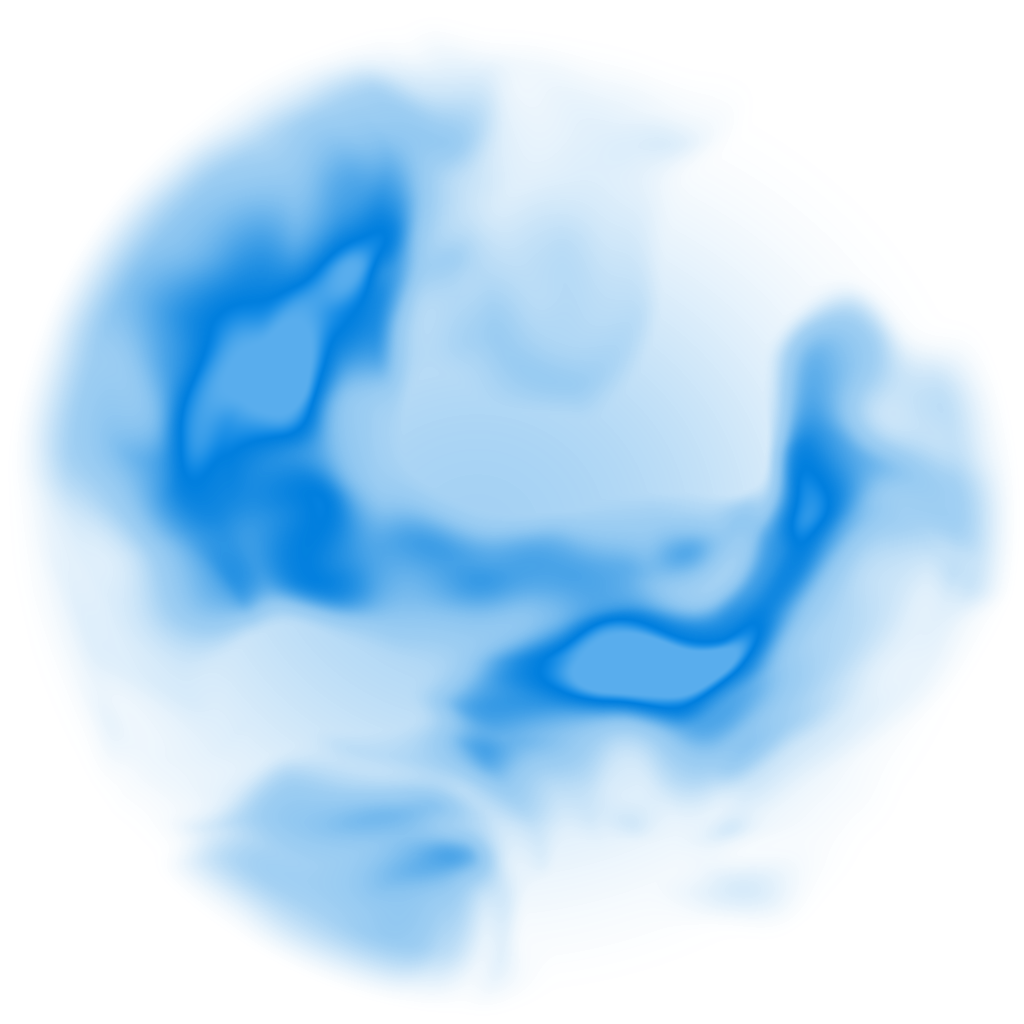
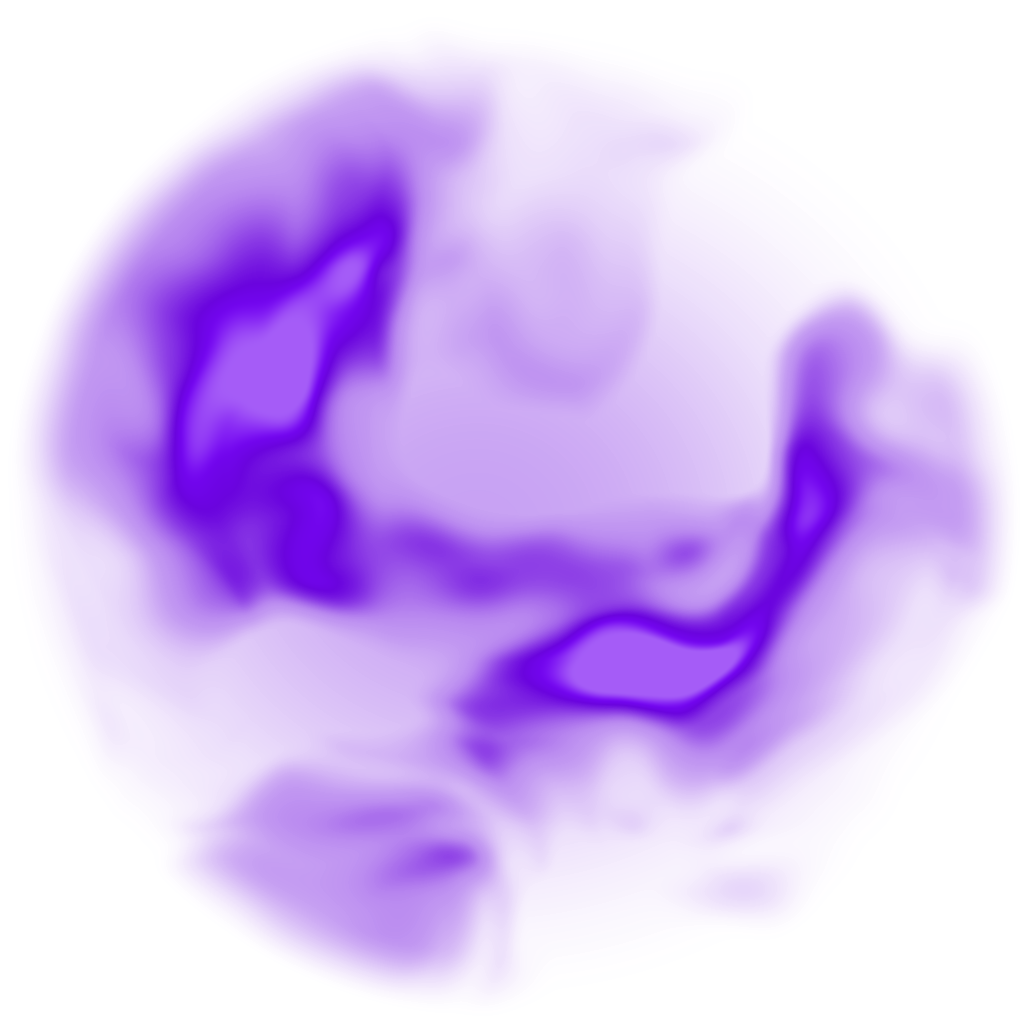
Colours: primary #7a05ff, secondary #ffffff, buttons #00d0ff (Color studio)

diff --git a/app/globals.css b/app/globals.css
@@ -62,9 +62,9 @@
  * Dark-first: výchozí je tmavé téma. Slider v rohu mění --brand-h / --brand-c.
  */
 :root {
-  --brand-h: 251.3;
-  --brand-c: 0.1823;
-  --brand-l-adj: -0.1587; /* ±0.08: posun světlosti akcentu (tlačítka, výplně, glow) */
+  --brand-h: 291.9;
+  --brand-c: 0.2919;
+  --brand-l-adj: -0.2549; /* ±0.08: posun světlosti akcentu (tlačítka, výplně, glow) */
 
   --brand: oklch(calc(0.78 + var(--brand-l-adj)) var(--brand-c) var(--brand-h));
   --brand-strong: oklch(calc(0.7 + var(--brand-l-adj)) var(--brand-c) var(--brand-h));
@@ -89,7 +89,7 @@
 
   /* Tmavé téma (výchozí) */
   /* Pozadí: světlost / sytost / odstín jedné barvy (Color studio), ostatní neutrály jsou její odvozeniny */
-  --bgd-l: 0.3012;
+  --bgd-l: 0.252;
   --bgd-c: 0;
   --bgd-h: 0;
   --bgl-l: 0.9194;

diff --git a/components/ColorStudio.tsx b/components/ColorStudio.tsx
@@ -16,7 +16,7 @@ import { makePack, updateFavicon } from '@/lib/brandAssets';
 
 const KEY = 'brand-v6';
 type Brand = { p: string; s: string; h: number; c: number; l: number; bd: string; bl: string; a: string };
-const DEF: Brand = { p: '#0088ef', s: '#ffffff', h: 251.3, c: 0.1823, l: -0.1587, bd: '#2e2e2e', bl: '#dfe2ff', a: '#00d0ff' };
+const DEF: Brand = { p: '#7a05ff', s: '#ffffff', h: 291.9, c: 0.2919, l: -0.2549, bd: '#222222', bl: '#dfe2ff', a: '#00d0ff' };
 const BG_KEY = 'brand-bg-v1'; // spočítané CSS proměnné pozadí; layout.tsx je obnoví před prvním vykreslením
 
 const round = (n: number, d = 3) => +n.toFixed(d);
